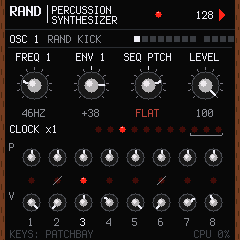
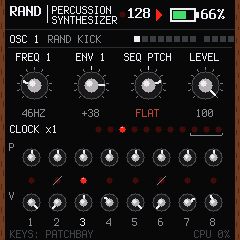
Akku-Anzeige: immer sichtbar oben rechts, Symbol in Ampelfarben, Prozent groß, Blitz beim Laden
Claude-Session: https://claude.ai/code/session_019gwqiQtDQMDhbyr4rsBLLJ

Changed region(s): [[0.7, 0.0292, 0.9333, 0.1167], [0.4958, 0.0292, 0.6708, 0.0875]]

diff --git a/app.c b/app.c
@@ -954,6 +954,101 @@ static void draw_steps(int32_t s)
     }
 }
 
+/* ------------------------------------------------------------------ der Akku --- */
+/* Prozent aus der Spannung: die Messung des Akku-Teilers (fm1-base: Stufen bei 531 / 561 / 591 Zählern, voll um
+ * 620 = 4.2 V) in Volt, dann die Entladekurve einer Li-Ionen-Zelle (unter Last flach in der Mitte, steil an den
+ * Enden). Geglättet und nur in ganzen Schritten bewegt, damit die Zahl nicht flackert. Am FM-1 noch nicht
+ * nachgemessen: ein Schätzwert, die Richtung stimmt. */
+enum { BAT_NONE, BAT_CELL, BAT_CHARGING, BAT_USB };
+static const float LI_V[9] = {3.40f, 3.50f, 3.60f, 3.70f, 3.80f, 3.90f, 4.00f, 4.10f, 4.20f};
+static const float LI_P[9] = {0.0f, 6.0f, 15.0f, 30.0f, 48.0f, 64.0f, 78.0f, 90.0f, 100.0f};
+static struct { float pct; int shown, mode; } bat = {-1.0f, -1, BAT_NONE};
+
+static void battery_read(void)
+{
+    int32_t raw = plat_battery_raw(), ch = plat_battery_charging(), bars = plat_battery(), i;
+    float v, p;
+#ifdef PLAT_HOST
+    {   /* der Simulator: RAND_BATT="Zähler,Laden" für die Bildschirmfotos (z.B. "548,0" oder "575,2") */
+        const char *e = getenv("RAND_BATT");
+        if (e) {
+            raw = atoi(e);
+            ch = strchr(e, ',') ? atoi(strchr(e, ',') + 1) : 0;
+        }
+    }
+#endif
+    if (raw <= 0 && bars < 0) {
+        bat.mode = BAT_NONE;             /* (noch nicht gelesen, oder der Browser-Emulator) */
+        return;
+    }
+    bat.mode = ch == 2 ? BAT_CHARGING : (bars == 4 || ch == 1) ? BAT_USB : BAT_CELL;
+    if (raw > 0) {
+        v = (float)raw * (4.2f / 620.0f);
+        if (v <= LI_V[0])
+            p = 0.0f;
+        else if (v >= LI_V[8])
+            p = 100.0f;
+        else {
+            for (i = 0; v > LI_V[i + 1]; i++)
+                ;
+            p = LI_P[i] + (LI_P[i + 1] - LI_P[i]) * (v - LI_V[i]) / (LI_V[i + 1] - LI_V[i]);
+        }
+    } else {
+        p = bars >= 3 ? 100.0f : (float)bars * 33.0f;   /* ohne Messwert: die Stufen */
+    }
+    bat.pct = bat.pct < 0.0f ? p : bat.pct + (p - bat.pct) * 0.15f;
+    i = (int32_t)(bat.pct + 0.5f);
+    if (bat.shown < 0 || i > bat.shown + 1 || i < bat.shown - 1 || i == 0 || i == 100)
+        bat.shown = (int)i;
+}
+
+/* der Akku im Kopf: ein klares Symbol (Rahmen, Pol, Füllung in Ampelfarben, beim Laden ein Blitz) und die Prozent
+ * groß daneben; unter 10 % blinkt er */
+static void draw_battery(int32_t x, int32_t y, uint32_t now)
+{
+    int32_t w = 26, h = 14, fill, pct = bat.shown;
+    char t[8];
+    uint16_t c;
+    if (bat.mode == BAT_NONE)
+        return;
+    cv_rect(x - 2, y - 3, 240 - 5 - (x - 2), h + 6, C_PANEL);   /* (über einer langen Meldung) */
+    if (pct < 0)
+        pct = 0;
+    c = pct >= 40 ? RGB(70, 220, 110) : pct >= 15 ? RGB(255, 190, 40) : C_LED;
+    if (bat.mode == BAT_CHARGING || bat.mode == BAT_USB)
+        c = RGB(70, 220, 110);
+    /* der Rahmen, 2 px, mit 1 px Luft zur Füllung; der Pol rechts */
+    cv_rect(x, y, w, h, C_LABEL);
+    cv_rect(x + 2, y + 2, w - 4, h - 4, C_PANEL);
+    cv_rect(x + w, y + 4, 3, h - 8, C_LABEL);
+    fill = (pct * (w - 6) + 50) / 100;
+    if (pct > 0 && fill < 2)
+        fill = 2;
+    if (!(pct < 10 && bat.mode == BAT_CELL && (now / 500u) & 1u))
+        cv_rect(x + 3, y + 3, fill, h - 6, c);
+    if (bat.mode != BAT_CELL) {          /* ein Blitz: am Netz (8 x 10 Pixel, dunkel umrandet) */
+        static const char *const BOLT[10] = {"....##..", "...##...", "..##....", ".##.....", "#######.",
+                                             "....##..", "...##...", "..##....", ".##.....", "##......"};
+        int32_t bx = x + w / 2 - 4, by = y + 2, r, q;
+        for (r = 0; r < 10; r++)
+            for (q = 0; q < 8; q++)
+                if (BOLT[r][q] == '#')
+                    cv_rect(bx + q - 1, by + r, 3, 1, C_PANEL);
+        for (r = 0; r < 10; r++)
+            for (q = 0; q < 8; q++)
+                if (BOLT[r][q] == '#')
+                    cv_rect(bx + q, by + r, 1, 1, C_LABEL);
+    }
+    t[0] = 0;
+    if (bat.mode == BAT_USB && pct >= 99)
+        text_cat(t, "USB");
+    else {
+        int_text(pct, t);
+        text_cat(t, "%");
+    }
+    cv_text(x + w + 5, y - 1, &FONT_B, t, pct < 15 && bat.mode == BAT_CELL ? C_LED : C_LABEL);
+}
+
 static void draw(void)
 {
     uint32_t now = plat_ms();
@@ -970,23 +1065,19 @@ static void draw(void)
         cv_rect(x + 5, 5, 1, 18, C_LABEL);
         cv_text(x + 10, 4, &FONT_XS, "PERCUSSION", C_LABEL);
         cv_text(x + 10, 14, &FONT_XS, "SYNTHESIZER", C_LABEL);
-        led(158, 14, rnd_level(&eng) > 0.3f);
+        led(122, 14, rnd_level(&eng) > 0.3f);
         t[0] = 0;
-        if (eng.ext) {
-            text_cat(t, "EXT ");
-            int_text((int32_t)(rnd_bpm(&eng) + 0.5f), t + 4);
-        } else {
-            int_text(set.bpm, t);
-        }
-        cv_text(214 - text_w(&FONT_XS, t), 9, &FONT_XS, t, eng.ext ? C_LED : C_LABEL);
+        int_text((int32_t)((eng.ext ? rnd_bpm(&eng) : (float)set.bpm) + 0.5f), t);
+        cv_text(151 - text_w(&FONT_B, t), 6, &FONT_B, t, eng.ext ? C_LED : C_LABEL);   /* rot: im Takt von außen */
         if (ui.playing) {
             int32_t i;
             for (i = 0; i < 6; i++)
-                cv_rect(219 + i, 9 + i, 1, 12 - 2 * i, C_LED);
+                cv_rect(156 + i, 9 + i, 1, 12 - 2 * i, C_LED);
         } else {
-            cv_rect(218, 9, 10, 10, C_SUB);
+            cv_rect(155, 10, 9, 9, C_SUB);
         }
     }
+    draw_battery(170, 8, now);
     cv_rect(5, 29, 230, 1, RGB(44, 44, 48));
     cv_blit(0, 0);
     cv_begin(240, 110, C_PANEL);
@@ -1118,7 +1209,10 @@ void app_frame(void)
         ui.redraw = 1;
     }
     if (now - ui.load_at >= 500u) {
-        uint32_t l = plat_cpu_pct() | plat_xruns() << 8;
+        uint32_t l;
+        battery_read();
+        l = plat_cpu_pct() | plat_xruns() << 8 | (uint32_t)(bat.shown & 0x7F) << 16 | (uint32_t)bat.mode << 23
+            | ((bat.shown < 10 && bat.mode == BAT_CELL) ? (now / 500u & 1u) << 25 : 0u);
         ui.load_at = now;
         if (l != ui.load_shown) {
             ui.load_shown = l;

diff --git a/app.h b/app.h
@@ -10,6 +10,7 @@
 #define APP_NAME "RAND"
 #define APP_SPLASH_RGB RGB(236, 236, 240)
 #define APP_SPLASH                       /* app_splash: RANDs eigener Startbildschirm */
+#define APP_BATTERY_RAW                  /* plat_battery_raw, plat_battery_charging: die Akku-Anzeige in Prozent */
 #define APP_BLOCK 128u                   /* Frames pro Audioblock: 2.9 ms bei 44.1 kHz (Drums: knapp) */
 
 /* der Speicher: die Einstellungen der App und die Panel-Kalibrierung (die der Plattform) */

diff --git a/README.md b/README.md
@@ -23,6 +23,13 @@ half-band filter, so high notes and FM stay clean. Each VCO drifts a few cents o
 If the FM-1 ever runs short of time (the load over 88 % for a second), RAND drops the oversampling by itself and shows
 **ECO** next to the CPU load, before there could be dropouts.
 
+## The battery
+
+The battery is always on screen, top right: a clear symbol filled green, amber under 40 %, red under 15 % (it blinks
+under 10 %), with the percentage beside it. On a USB cable a lightning bolt shows the cell charging, and `USB` when it
+is full. The percentage comes from the cell's voltage along a lithium-ion discharge curve: an estimate, not yet
+calibrated on an FM-1.
+
 ## The sequencer
 
 Eight steps, each with a **pitch** and a **velocity** knob, length 1 to 8. The **CLOCK** runs from /4 to x128 of the
